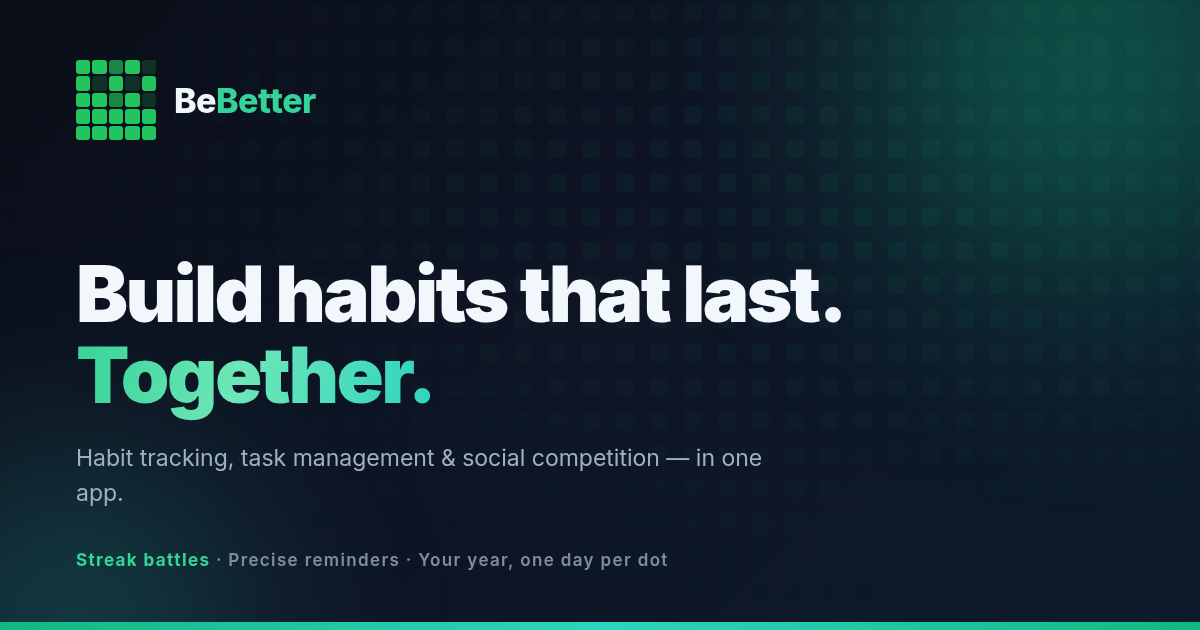
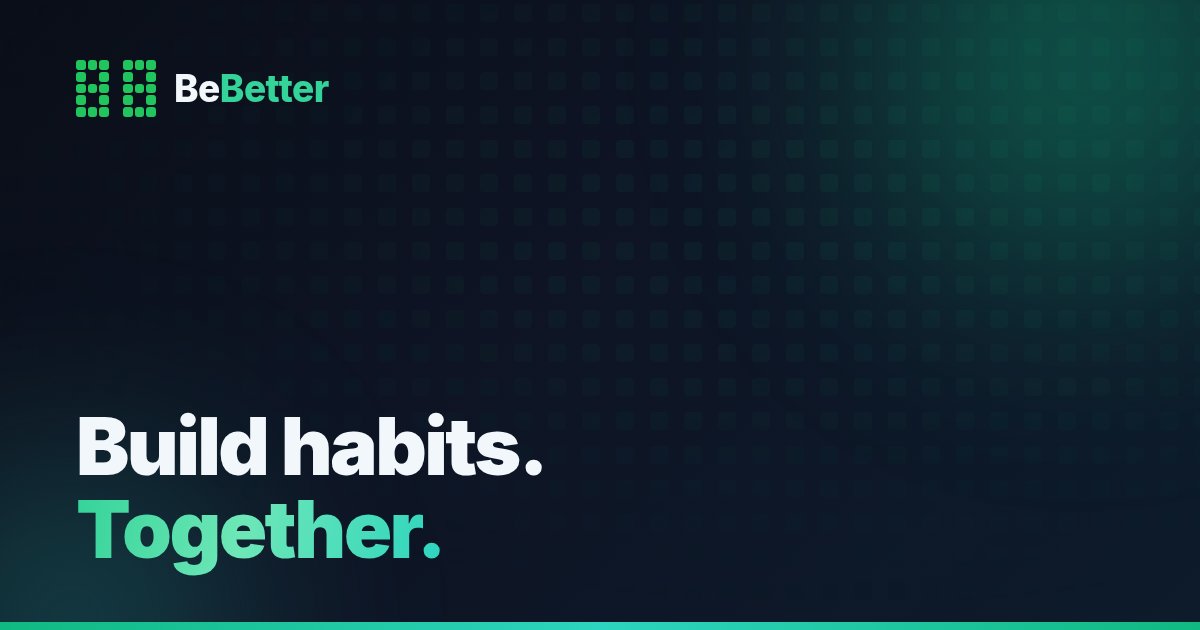
feat: landing polish + year-grid preview; fix: stats exclude test accounts

Changed region(s): [[0.0617, 0.5429, 0.6475, 0.9349], [0.0617, 0.4222, 0.7092, 0.5127], [0.0617, 0.0905, 0.2775, 0.2413]]

diff --git a/frontend/src/views/Landing.vue b/frontend/src/views/Landing.vue
@@ -36,7 +36,7 @@
               <a href="/login" class="btn-secondary px-8 py-4 border border-[var(--bb-line)] text-lg font-medium">
                 Sign In
               </a>
-              <a href="/login?demo=1" class="btn-ghost px-8 py-4 text-lg font-medium">
+              <a href="/login?demo=1" class="btn-demo px-8 py-4 text-lg font-medium">
                 Try the Demo
               </a>
             </div>
@@ -49,14 +49,10 @@
         <ScrollReveal variant="fade-up">
           <div class="rounded-2xl border border-[var(--bb-line)] bg-[var(--bb-bg-soft)] p-5 sm:p-8">
             <div class="flex items-center justify-between flex-wrap gap-2 mb-6">
-              <p class="text-xs font-bold tracking-[0.2em] uppercase text-[var(--bb-muted)]">Your year, one day per dot</p>
-              <span class="flex items-center gap-2.5 text-[10px] text-[var(--bb-faint)] uppercase tracking-wider">
-                <span class="flex items-center gap-1.5"><span class="w-2 h-2 rounded-[2px] bg-[#15803d]" aria-hidden="true"></span> done</span>
-                <span class="flex items-center gap-1.5"><span class="w-2 h-2 rounded-[2px] bg-[var(--bb-grid)]" aria-hidden="true"></span> rest</span>
-              </span>
+              <p class="text-xs font-bold tracking-[0.2em] uppercase text-[var(--bb-muted)]">Your year at a glance</p>
             </div>
             <div class="overflow-x-auto pb-1">
-              <YearGrid :width="52" :height="7" />
+              <ContributionGrid :grid="demoGrid" :year="demoYear" />
             </div>
           </div>
         </ScrollReveal>
@@ -151,7 +147,7 @@
 
           <div class="grid grid-cols-1 md:grid-cols-3 gap-8 relative">
             <div class="hidden md:block absolute top-8 left-[16%] right-[16%] h-px bg-gradient-to-r from-[var(--bb-accent)]/40 via-[var(--bb-accent)]/20 to-transparent" aria-hidden="true"></div>
-            <div v-for="(step, i) in steps" :key="step.title" class="text-center space-y-4 p-6 relative">
+            <div v-for="(step, i) in steps" :key="step.title" class="text-center space-y-4 p-6 sm:p-8 relative rounded-2xl border border-[var(--bb-line)] bg-[var(--bb-card)] transition-colors duration-300">
               <div class="relative w-16 h-16 rounded-2xl bg-[var(--bb-accent)]/10 border border-[var(--bb-accent)]/20 flex items-center justify-center mx-auto">
                 <component :is="step.icon" :size="28" class="text-[var(--bb-accent)]" :stroke-width="1.5" />
                 <span class="absolute -top-2 -right-2 w-6 h-6 rounded-full bg-[var(--bb-accent)] text-[var(--bb-accent-ink)] text-xs font-bold flex items-center justify-center">{{ i + 1 }}</span>
@@ -216,34 +212,6 @@
         </ScrollReveal>
       </section>
 
-      <!-- ============ SHOWCASE ============ -->
-      <section id="showcase" class="border-b border-[var(--bb-line)] bg-[var(--bb-bg-soft)] py-20 sm:py-28">
-        <ScrollReveal variant="fade-up" class="max-w-7xl mx-auto px-4 sm:px-6 lg:px-8">
-          <div class="flex items-end justify-between gap-6 mb-16">
-            <div class="space-y-4 max-w-2xl">
-              <p class="text-xs font-bold tracking-[0.25em] uppercase text-[var(--bb-accent)]">04 &mdash; In the wild</p>
-              <h2 class="text-3xl sm:text-5xl font-extrabold tracking-tight">Real habits from<br class="hidden sm:inline" /> real people</h2>
-            </div>
-            <p v-if="showcaseHabits.length" class="hidden lg:block text-sm text-[var(--bb-muted)] max-w-xs leading-relaxed pb-1">Public habits, shared by people who actually use the app.</p>
-          </div>
-
-          <div v-if="showcaseHabits.length" class="grid grid-cols-1 md:grid-cols-3 gap-6">
-            <HabitShowcaseCard v-for="habit in showcaseHabits" :key="habit.id || habit.title" :habit="habit" />
-          </div>
-
-          <div v-else class="rounded-2xl border border-[var(--bb-line)] bg-[var(--bb-card)] p-10 sm:p-14 text-center">
-            <p class="text-4xl mb-4" aria-hidden="true">🌱</p>
-            <h3 class="text-xl font-bold mb-2">No public habits yet &mdash; be the first</h3>
-            <p class="text-sm text-[var(--bb-muted)] max-w-md mx-auto mb-6 leading-relaxed">
-              Public habits appear here as soon as people start sharing them. Create your first habit, make it public, and you could be the face of the leaderboard.
-            </p>
-            <a href="/register" class="btn px-8 py-3 bg-emerald-700 hover:bg-emerald-600 text-base font-semibold shadow-[0_0_20px_rgba(16,185,129,0.25)]">
-              Get started in 2 minutes
-            </a>
-          </div>
-        </ScrollReveal>
-      </section>
-
       <!-- ============ FINAL CTA ============ -->
       <section id="cta" class="py-20 sm:py-28 relative overflow-hidden">
         <div class="absolute inset-x-0 top-0 h-px bg-gradient-to-r from-transparent via-[var(--bb-accent)]/50 to-transparent" aria-hidden="true"></div>
@@ -264,7 +232,7 @@
               <ArrowRight :size="18" class="group-hover:translate-x-0.5 transition-transform" />
             </a>
             <a href="/login" class="btn-secondary px-10 py-4 text-lg font-medium">Sign In</a>
-            <a href="/login?demo=1" class="btn-ghost px-10 py-4 text-lg font-medium">Try the Demo</a>
+            <a href="/login?demo=1" class="btn-demo px-10 py-4 text-lg font-medium">Try the Demo</a>
           </div>
           <p class="text-xs text-[var(--bb-faint)]">
             <a href="/privacy" class="underline underline-offset-2 hover:text-[var(--bb-accent)] transition-colors">Privacy</a>
@@ -287,9 +255,8 @@ import { ref, onMounted, onBeforeUnmount } from 'vue'
 import LandingNavbar from '../components/LandingNavbar.vue'
 import LandingFooter from '../components/LandingFooter.vue'
 import ScrollReveal from '../components/ScrollReveal.vue'
-import HabitShowcaseCard from '../components/HabitShowcaseCard.vue'
 import StatCounter from '../components/StatCounter.vue'
-import YearGrid from '../components/YearGrid.vue'
+import ContributionGrid from '../components/ContributionGrid.vue'
 import MarqueeBand from '../components/MarqueeBand.vue'
 import AmbientGlow from '../components/AmbientGlow.vue'
 import {
@@ -299,6 +266,31 @@ import {
 
 const loaded = ref(false)
 const stats = ref({ habits: 0, completionsValue: 0, completionsSuffix: '', streakRetention: 0, newHabits: 0 })
+
+// Demo contribution grid — mirrors the real app grid (weeks, month labels, intensity)
+const demoYear = new Date().getFullYear()
+const demoGrid = (() => {
+  const grid = []
+  const now = new Date()
+  for (let d = new Date(Date.UTC(demoYear, 0, 1)); d <= now; d.setUTCDate(d.getUTCDate() + 1)) {
+    const dateStr = d.toISOString().slice(0, 10)
+    const seed = Math.sin(Date.parse(dateStr) / 86400000 * 2.7) * 10000
+    const rnd = seed - Math.floor(seed)
+    const dow = d.getUTCDay()
+    const weekend = dow === 0 || dow === 6
+    const scheduled = weekend ? 1 : 2
+    const habits = rnd < 0.72 ? scheduled : rnd < 0.86 ? 1 : 0
+    grid.push({
+      date: dateStr,
+      scheduled,
+      completed: habits,
+      habits,
+      tasks: rnd < 0.3 ? 1 : 0,
+      items: [],
+    })
+  }
+  return grid
+})()
 
 const hero = ref(null)
 let heroRaf = null
@@ -329,13 +321,10 @@ const tickerItems = [
   'Precise push reminders',
   'Photo verification',
   'PWA & offline ready',
-  'Your year, one day per dot',
+  'Your year at a glance',
 ]
 
-const showcaseHabits = ref([])
-
-const features = [
-  { title: 'Habits that adapt to you', description: 'Multiple schedules per habit. Precise reminders at exact times. Photo or honor verification. Automatic streaks, breaks, and consistency stats. Your habits, your rules.', icon: Target },
+const features = [  { title: 'Habits that adapt to you', description: 'Multiple schedules per habit. Precise reminders at exact times. Photo or honor verification. Automatic streaks, breaks, and consistency stats. Your habits, your rules.', icon: Target },
   { title: 'Tasks that respect your time', description: 'One-time scheduled tasks with precise reminders. No weekly repeat unless you want it. Completed tasks feed your contribution grid. Overdue tasks never clutter your day.', icon: ListTodo },
   { title: 'Competition that keeps you going', description: 'Invite friends with a link — they join, you\'re connected. Challenge anyone head-to-head. Add accountability buddies who co-sign completions. Watch each other\'s streaks in real time.', icon: Users },
 ]
@@ -389,9 +378,6 @@ onMounted(() => {
         newHabits: s.avgSetup || 0,
       }
       loaded.value = true
-      if (Array.isArray(data?.featured) && data.featured.length) {
-        showcaseHabits.value = data.featured.slice(0, 3)
-      }
     })
     .catch(() => {
       loaded.value = true
@@ -406,6 +392,16 @@ onBeforeUnmount(() => {
 </script>
 
 <style scoped>
+.btn-demo {
+  border: 1px solid color-mix(in srgb, var(--bb-accent) 45%, transparent);
+  background: color-mix(in srgb, var(--bb-accent) 9%, transparent);
+  color: var(--bb-accent);
+  transition: background-color 0.2s ease, border-color 0.2s ease, color 0.2s ease;
+}
+.btn-demo:hover {
+  background: color-mix(in srgb, var(--bb-accent) 16%, transparent);
+  border-color: color-mix(in srgb, var(--bb-accent) 70%, transparent);
+}
 .hero-scrim {
   background: radial-gradient(ellipse 70% 62% at 50% 36%, color-mix(in srgb, var(--bb-bg) 52%, transparent), color-mix(in srgb, var(--bb-bg) 30%) 52%, transparent 78%);
 }

diff --git a/frontend/src/components/LandingNavbar.vue b/frontend/src/components/LandingNavbar.vue
@@ -9,21 +9,21 @@
 
         <nav class="bb-nav hidden md:flex items-center gap-1" aria-label="Main">
           <a v-for="item in desktopItems" :key="item.href" :href="item.href"
-            class="px-3 py-2 rounded-lg text-sm font-medium text-[var(--bb-muted)] hover:text-[var(--bb-ink)] hover:bg-[var(--bb-line)] transition-colors touch-target">
+            class="px-3 py-2 rounded-lg text-sm font-medium text-[var(--bb-muted)] hover:text-[var(--bb-ink)] hover:bg-[var(--bb-line)] transition-colors duration-150 touch-target">
             {{ item.label }}
           </a>
         </nav>
 
         <div class="flex items-center gap-3 justify-self-end">
-          <button @click="toggleTheme" class="p-2.5 rounded-lg text-[var(--bb-muted)] hover:text-[var(--bb-ink)] hover:bg-[var(--bb-line)] transition-colors touch-target inline-flex items-center justify-center shrink-0" aria-label="Toggle theme">
+          <button @click="toggleTheme" class="nav-btn p-2.5 rounded-lg text-[var(--bb-muted)] hover:text-[var(--bb-ink)] transition-colors duration-150 touch-target inline-flex items-center justify-center shrink-0" aria-label="Toggle theme">
             <Sun v-if="isDark" :size="18" />
             <Moon v-else :size="18" />
           </button>
-          <a href="/login" class="hidden sm:block text-sm font-medium text-[var(--bb-muted)] hover:text-[var(--bb-ink)] px-4 py-2 rounded-lg transition-colors touch-target">Sign In</a>
+          <a href="/login" class="hidden sm:block text-sm font-medium text-[var(--bb-muted)] hover:text-[var(--bb-ink)] px-4 py-2 rounded-lg transition-colors duration-150 touch-target">Sign In</a>
           <a href="/register" class="btn text-sm px-6 py-2.5 bg-emerald-700 hover:bg-emerald-600 shadow-[0_0_15px_rgba(16,185,129,0.2)] font-semibold">
             Sign Up
           </a>
-          <button @click="mobileOpen = !mobileOpen" class="md:hidden p-2.5 rounded-lg text-[var(--bb-muted)] hover:text-[var(--bb-ink)] hover:bg-[var(--bb-line)] transition-colors touch-target" aria-label="Menu" :aria-expanded="mobileOpen">
+          <button @click="mobileOpen = !mobileOpen" class="nav-btn md:hidden p-2.5 rounded-lg text-[var(--bb-muted)] hover:text-[var(--bb-ink)] transition-colors duration-150 touch-target" aria-label="Menu" :aria-expanded="mobileOpen">
             <Menu v-if="!mobileOpen" :size="20" />
             <X v-else :size="20" />
           </button>
@@ -74,14 +74,12 @@ const desktopItems = [
   { href: '#features', label: 'Features' },
   { href: '#how', label: 'How it works' },
   { href: '#challenges', label: 'Challenges' },
-  { href: '#showcase', label: 'Showcase' },
 ]
 
 const mobileItems = [
   { href: '#features', label: 'Features' },
   { href: '#how', label: 'How it works' },
   { href: '#challenges', label: 'Challenges' },
-  { href: '#showcase', label: 'Showcase' },
 ]
 
 watch(mobileOpen, (open) => {
@@ -100,6 +98,13 @@ onUnmounted(() => {
 </script>
 
 <style scoped>
+.nav-btn {
+  background: transparent;
+  border: 1px solid transparent;
+}
+.nav-btn:hover {
+  background: color-mix(in srgb, var(--bb-muted) 10%, transparent);
+}
 .fade-enter-active,
 .fade-leave-active {
   transition: opacity 0.2s ease;

diff --git a/backend/src/routes/public.js b/backend/src/routes/public.js
@@ -27,13 +27,13 @@ router.get('/landing', async (req, res) => {
     const monthAgo = new Date(now.getTime() - 30 * 24 * 60 * 60 * 1000);
 
     const [habitCount, logCount, taskCount, recentHabits, streakStats, featured] = await Promise.all([
-      prisma.habit.count({ where: { user: { isDemo: false } } }),
-      prisma.habitLog.count({ where: { user: { isDemo: false } } }),
-      prisma.taskLog.count({ where: { user: { isDemo: false } } }),
-      prisma.habit.count({ where: { createdAt: { gte: monthAgo }, user: { isDemo: false } } }),
-      prisma.habit.aggregate({ _avg: { bestStreak: true }, where: { user: { isDemo: false } } }),
+      prisma.habit.count({ where: { user: { isDemo: false, isTest: false } } }),
+      prisma.habitLog.count({ where: { user: { isDemo: false, isTest: false } } }),
+      prisma.taskLog.count({ where: { user: { isDemo: false, isTest: false } } }),
+      prisma.habit.count({ where: { createdAt: { gte: monthAgo }, user: { isDemo: false, isTest: false } } }),
+      prisma.habit.aggregate({ _avg: { bestStreak: true }, where: { user: { isDemo: false, isTest: false } } }),
       prisma.habit.findMany({
-        where: { isPublic: true, user: { isPublic: true, isDemo: false, bannedUntil: null } },
+        where: { isPublic: true, user: { isPublic: true, isDemo: false, isTest: false, bannedUntil: null } },
         include: {
           user: { select: { id: true, username: true, avatar: true, isPublic: true } },
           _count: { select: { logs: true } },
@@ -91,7 +91,7 @@ router.get('/landing', async (req, res) => {
 router.get('/featured-habits', async (req, res) => {
   try {
     const habits = await prisma.habit.findMany({
-      where: { isPublic: true, user: { isPublic: true, isDemo: false, bannedUntil: null } },
+      where: { isPublic: true, user: { isPublic: true, isDemo: false, isTest: false, bannedUntil: null } },
       include: {
         user: { select: { username: true, avatar: true } },
         _count: { select: { logs: true } },

diff --git a/backend/src/routes/admin.js b/backend/src/routes/admin.js
@@ -19,12 +19,13 @@ router.use(authMiddleware, adminMiddleware);
 
 router.get('/stats', async (req, res) => {
   try {
+    const REAL = { isDemo: false, isTest: false };
     const [users, habits, logs, tasks, taskLogs] = await Promise.all([
-      prisma.user.count(),
-      prisma.habit.count(),
-      prisma.habitLog.count(),
-      prisma.task.count(),
-      prisma.taskLog.count(),
+      prisma.user.count({ where: REAL }),
+      prisma.habit.count({ where: { user: REAL } }),
+      prisma.habitLog.count({ where: { user: REAL } }),
+      prisma.task.count({ where: { user: REAL } }),
+      prisma.taskLog.count({ where: { user: REAL } }),
     ]);
 
     const today = new Date();
@@ -34,11 +35,11 @@ router.get('/stats', async (req, res) => {
 
     const [activeToday, newUsersWeek] = await Promise.all([
       prisma.habitLog.findMany({
-        where: { completedAt: { gte: today, lt: tomorrow } },
+        where: { completedAt: { gte: today, lt: tomorrow }, user: REAL },
         select: { userId: true },
       }).then((logs) => new Set(logs.map((l) => l.userId)).size),
       prisma.user.count({
-        where: { createdAt: { gte: new Date(Date.now() - 7 * 24 * 60 * 60 * 1000) } },
+        where: { createdAt: { gte: new Date(Date.now() - 7 * 24 * 60 * 60 * 1000) }, ...REAL },
       }),
     ]);
 

diff --git a/frontend/src/components/AmbientGlow.vue b/frontend/src/components/AmbientGlow.vue
@@ -38,7 +38,7 @@ function build() {
     particles.push({
       x: Math.random() * w,
       y: Math.random() * h,
-      r: rand(3.5, 7.5) * dpr,
+      r: rand(4.5, 9.5) * dpr,
       vx: rand(-0.14, 0.14) * dpr,
       vy: rand(-0.12, 0.12) * dpr,
       ph: Math.random() * TAU,
@@ -176,23 +176,6 @@ function draw() {
     ctx.fillStyle = g
     ctx.beginPath()
     ctx.arc(bloom.x, bloom.y, r, 0, TAU)
-    ctx.fill()
-
-    // Soft blurred core dot — a glow ball, no hard edges.
-    const cr = (20 + 12 * bloom.s) * dpr
-    const cg = ctx.createRadialGradient(bloom.x, bloom.y, 0, bloom.x, bloom.y, cr)
-    if (light) {
-      cg.addColorStop(0, 'rgba(4, 120, 87, 0.6)')
-      cg.addColorStop(0.45, 'rgba(16, 185, 129, 0.32)')
-      cg.addColorStop(1, 'rgba(16, 185, 129, 0)')
-    } else {
-      cg.addColorStop(0, 'rgba(167, 243, 208, 0.75)')
-      cg.addColorStop(0.45, 'rgba(52, 211, 153, 0.4)')
-      cg.addColorStop(1, 'rgba(52, 211, 153, 0)')
-    }
-    ctx.fillStyle = cg
-    ctx.beginPath()
-    ctx.arc(bloom.x, bloom.y, cr, 0, TAU)
     ctx.fill()
   }
 

diff --git a/frontend/src/assets/main.css b/frontend/src/assets/main.css
@@ -378,9 +378,9 @@ html.light {
   --app-nav-border: rgba(0, 0, 0, 0.07);
 }
 /* fix landing navs clobbered by global html.light nav rules */
-html.light nav.bb-nav { background: color-mix(in srgb, var(--bb-bg) 92%, transparent) !important; border-color: var(--bb-line) !important; }
+html.light nav.bb-nav { background: transparent !important; border-color: var(--bb-line) !important; }
 html.light nav.bb-nav a, html.light nav.bb-nav button { color: var(--bb-muted) !important; }
-html.light nav.bb-nav a:hover, html.light nav.bb-nav button:hover { color: var(--bb-ink) !important; background: var(--bb-line) !important; }
+html.light nav.bb-nav a:hover, html.light nav.bb-nav button:hover { color: var(--bb-ink) !important; background: color-mix(in srgb, var(--bb-muted) 9%, transparent) !important; }
 html.light footer nav { background: transparent !important; border: none !important; box-shadow: none !important; }
 html.light footer nav a { color: var(--bb-muted) !important; }
 html.light footer nav a:hover { color: var(--bb-ink) !important; }

diff --git a/frontend/src/components/Logo.vue b/frontend/src/components/Logo.vue
@@ -1,6 +1,7 @@
 <template>
   <svg :width="size" :height="size" viewBox="0 0 500 500" xmlns="http://www.w3.org/2000/svg">
-    <rect width="500" height="500" :fill="isLight ? '#e5e7eb' : '#0f1722'" rx="22"/>
+    <rect width="500" height="500" :fill="isLight ? '#eef1f5' : '#0f1722'" rx="22"/>
+    <rect x="0" y="0" width="500" height="500" rx="22" fill="none" :stroke="isLight ? '#d8dde3' : '#1e293b'" stroke-width="6"/>
     <g fill="#21c55d" rx="22" ry="22">
       <rect x="20" y="20" width="80" height="80" rx="22"/>
       <rect x="115" y="20" width="80" height="80" rx="22"/>

diff --git a/backend/src/routes/habits.js b/backend/src/routes/habits.js
@@ -594,7 +594,7 @@ router.delete('/:id/buddy/:buddyId', authMiddleware, async (req, res) => {
 router.get('/featured/public', async (req, res) => {
   try {
     const habits = await prisma.habit.findMany({
-      where: { isPublic: true, active: true },
+      where: { isPublic: true, active: true, user: { isDemo: false, isTest: false } },
       orderBy: { logs: { _count: 'desc' } },
       take: 3,
       select: {

diff --git a/backend/prisma/seed.js b/backend/prisma/seed.js
@@ -16,6 +16,7 @@ async function main() {
       username: 'michi',
       role: 'admin',
       isPublic: true,
+      isTest: true,
       bio: 'Building better habits every day',
     },
   });
@@ -44,6 +45,7 @@ async function main() {
       passwordHash: hash2,
       username: 'alex',
       isPublic: true,
+      isTest: true,
       bio: 'Fitness enthusiast',
     },
   });

diff --git a/backend/src/routes/leaderboard.js b/backend/src/routes/leaderboard.js
@@ -7,7 +7,7 @@ const router = Router();
 router.get('/global', authMiddleware, async (req, res) => {
   try {
     const users = await prisma.user.findMany({
-      where: { isPublic: true, isDemo: false, bannedUntil: null },
+      where: { isPublic: true, isDemo: false, isTest: false, bannedUntil: null },
       select: { id: true, username: true, avatar: true },
     });
 

diff --git a/backend/src/routes/friends.js b/backend/src/routes/friends.js
@@ -59,6 +59,7 @@ router.get('/search', authMiddleware, async (req, res) => {
         ],
         id: { not: req.userId },
         isDemo: false,
+        isTest: false,
       },
       select: { id: true, username: true, avatar: true, bio: true },
       take: 10,
